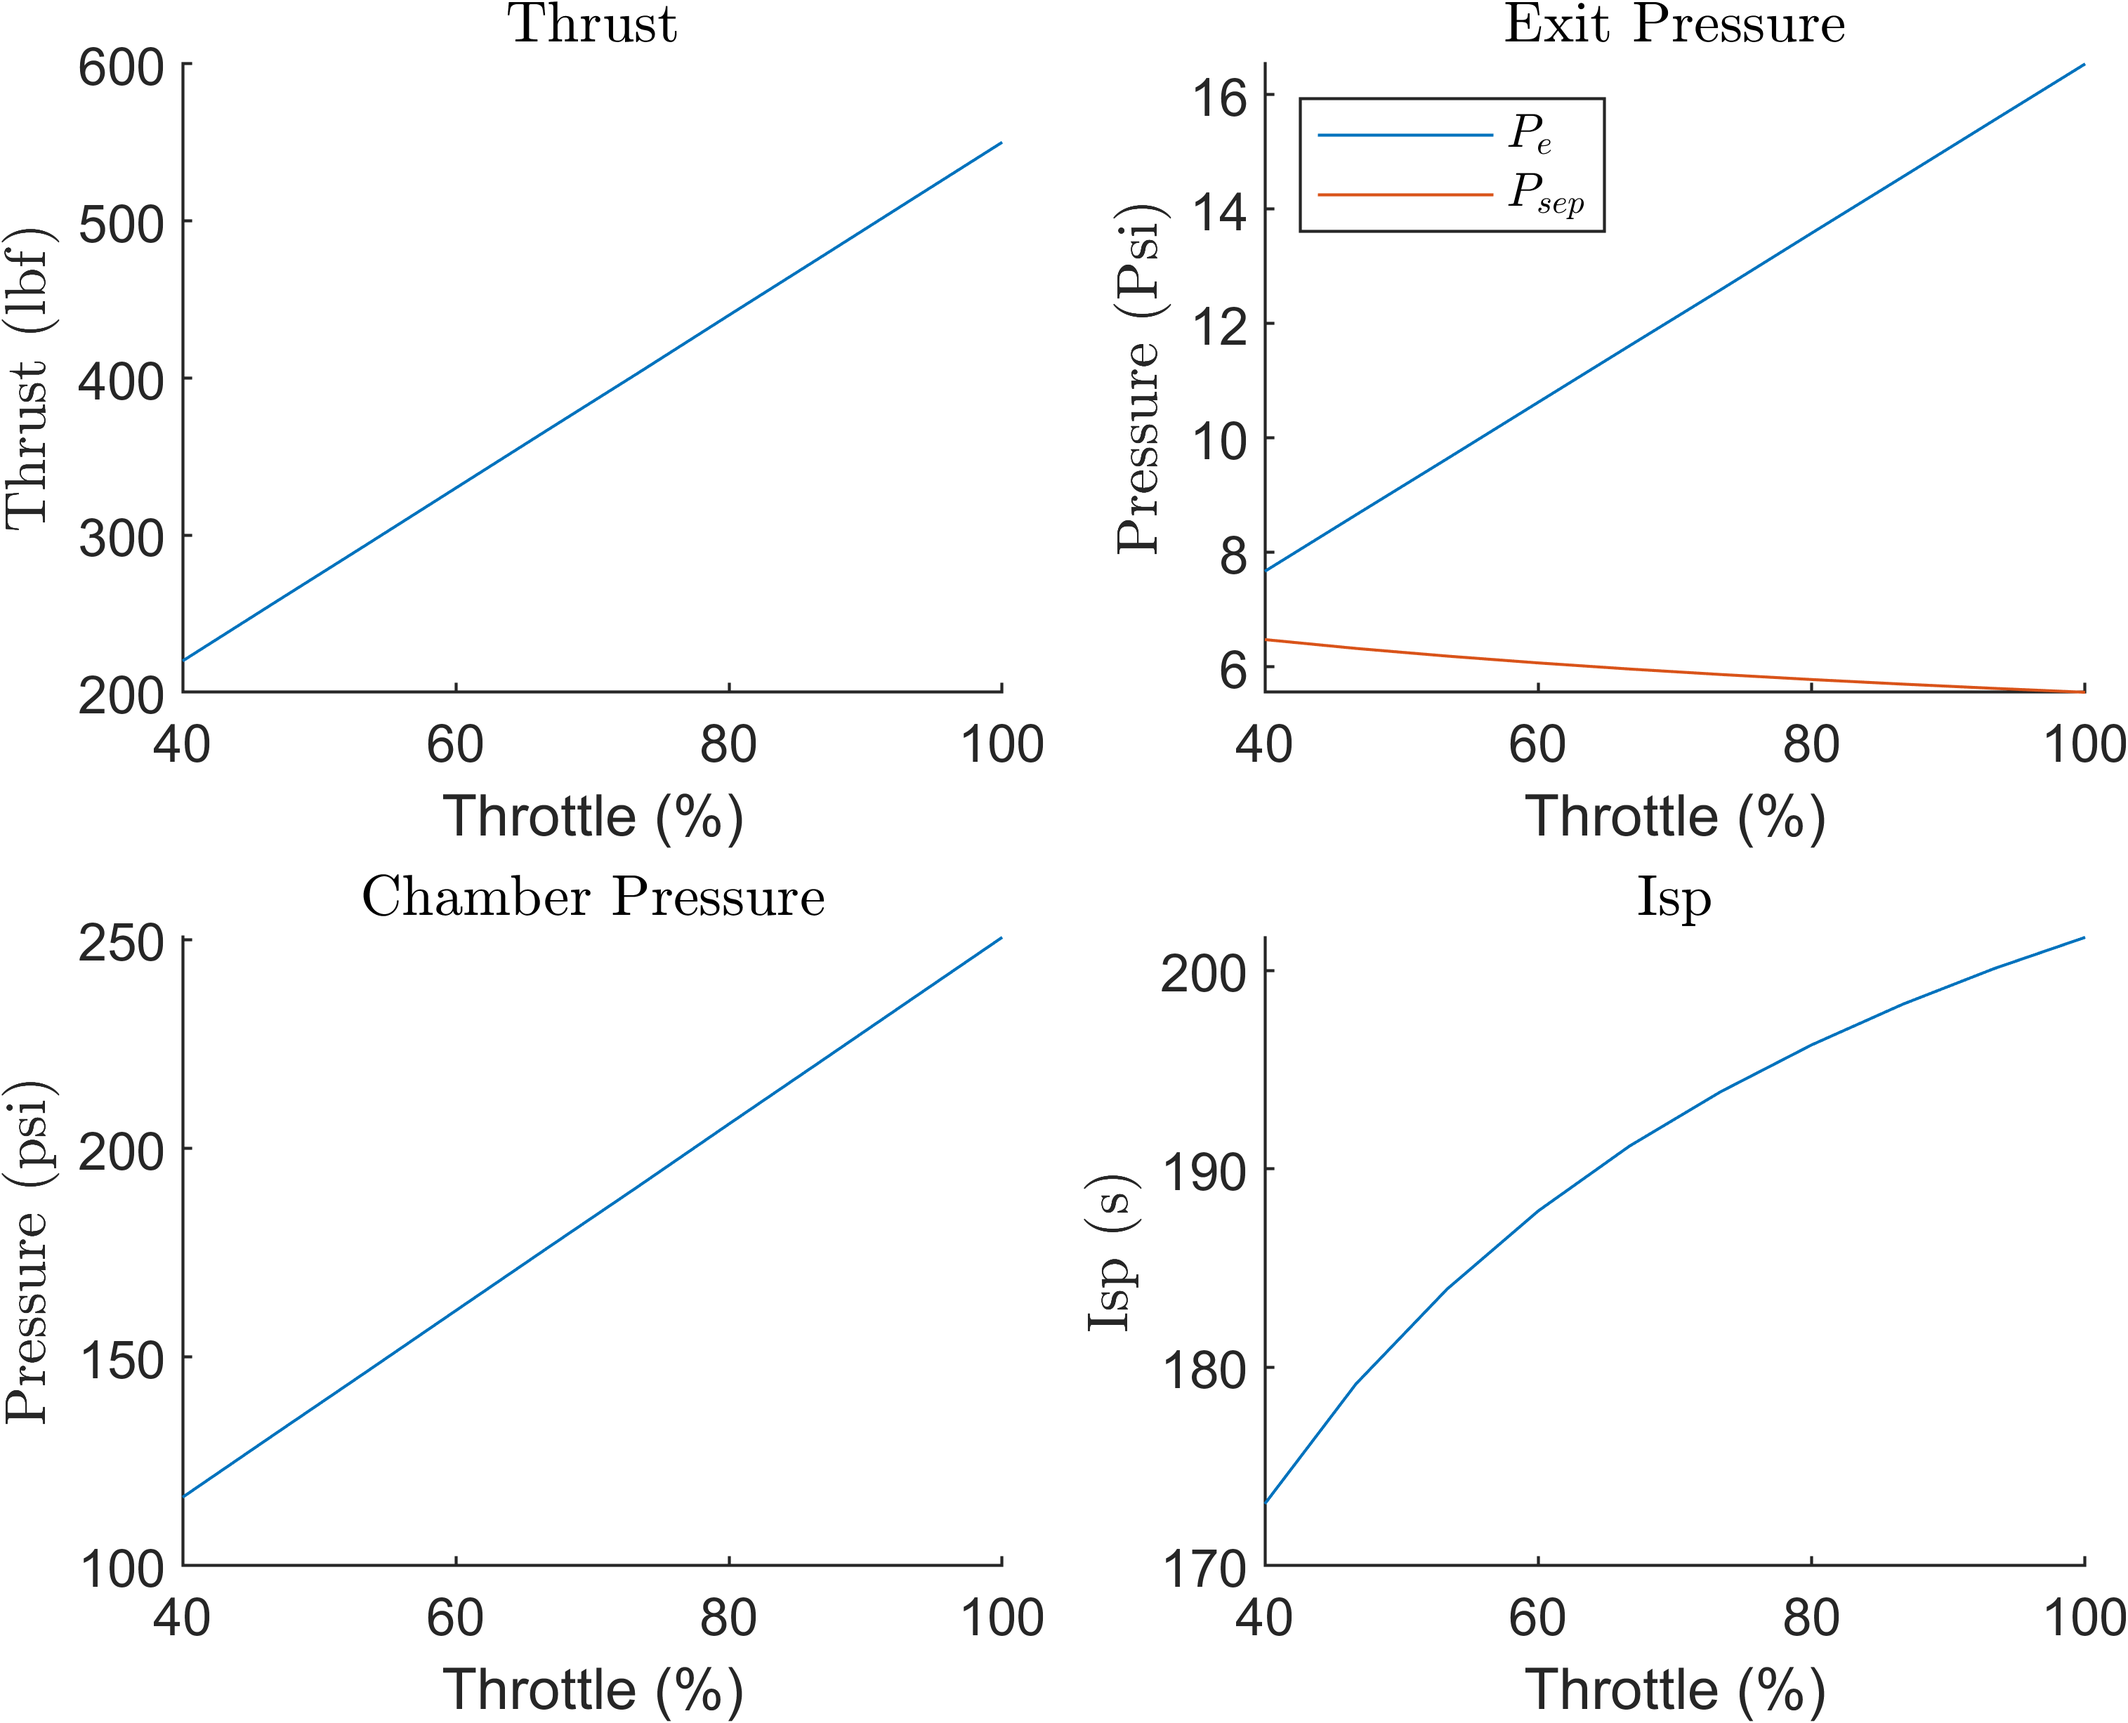
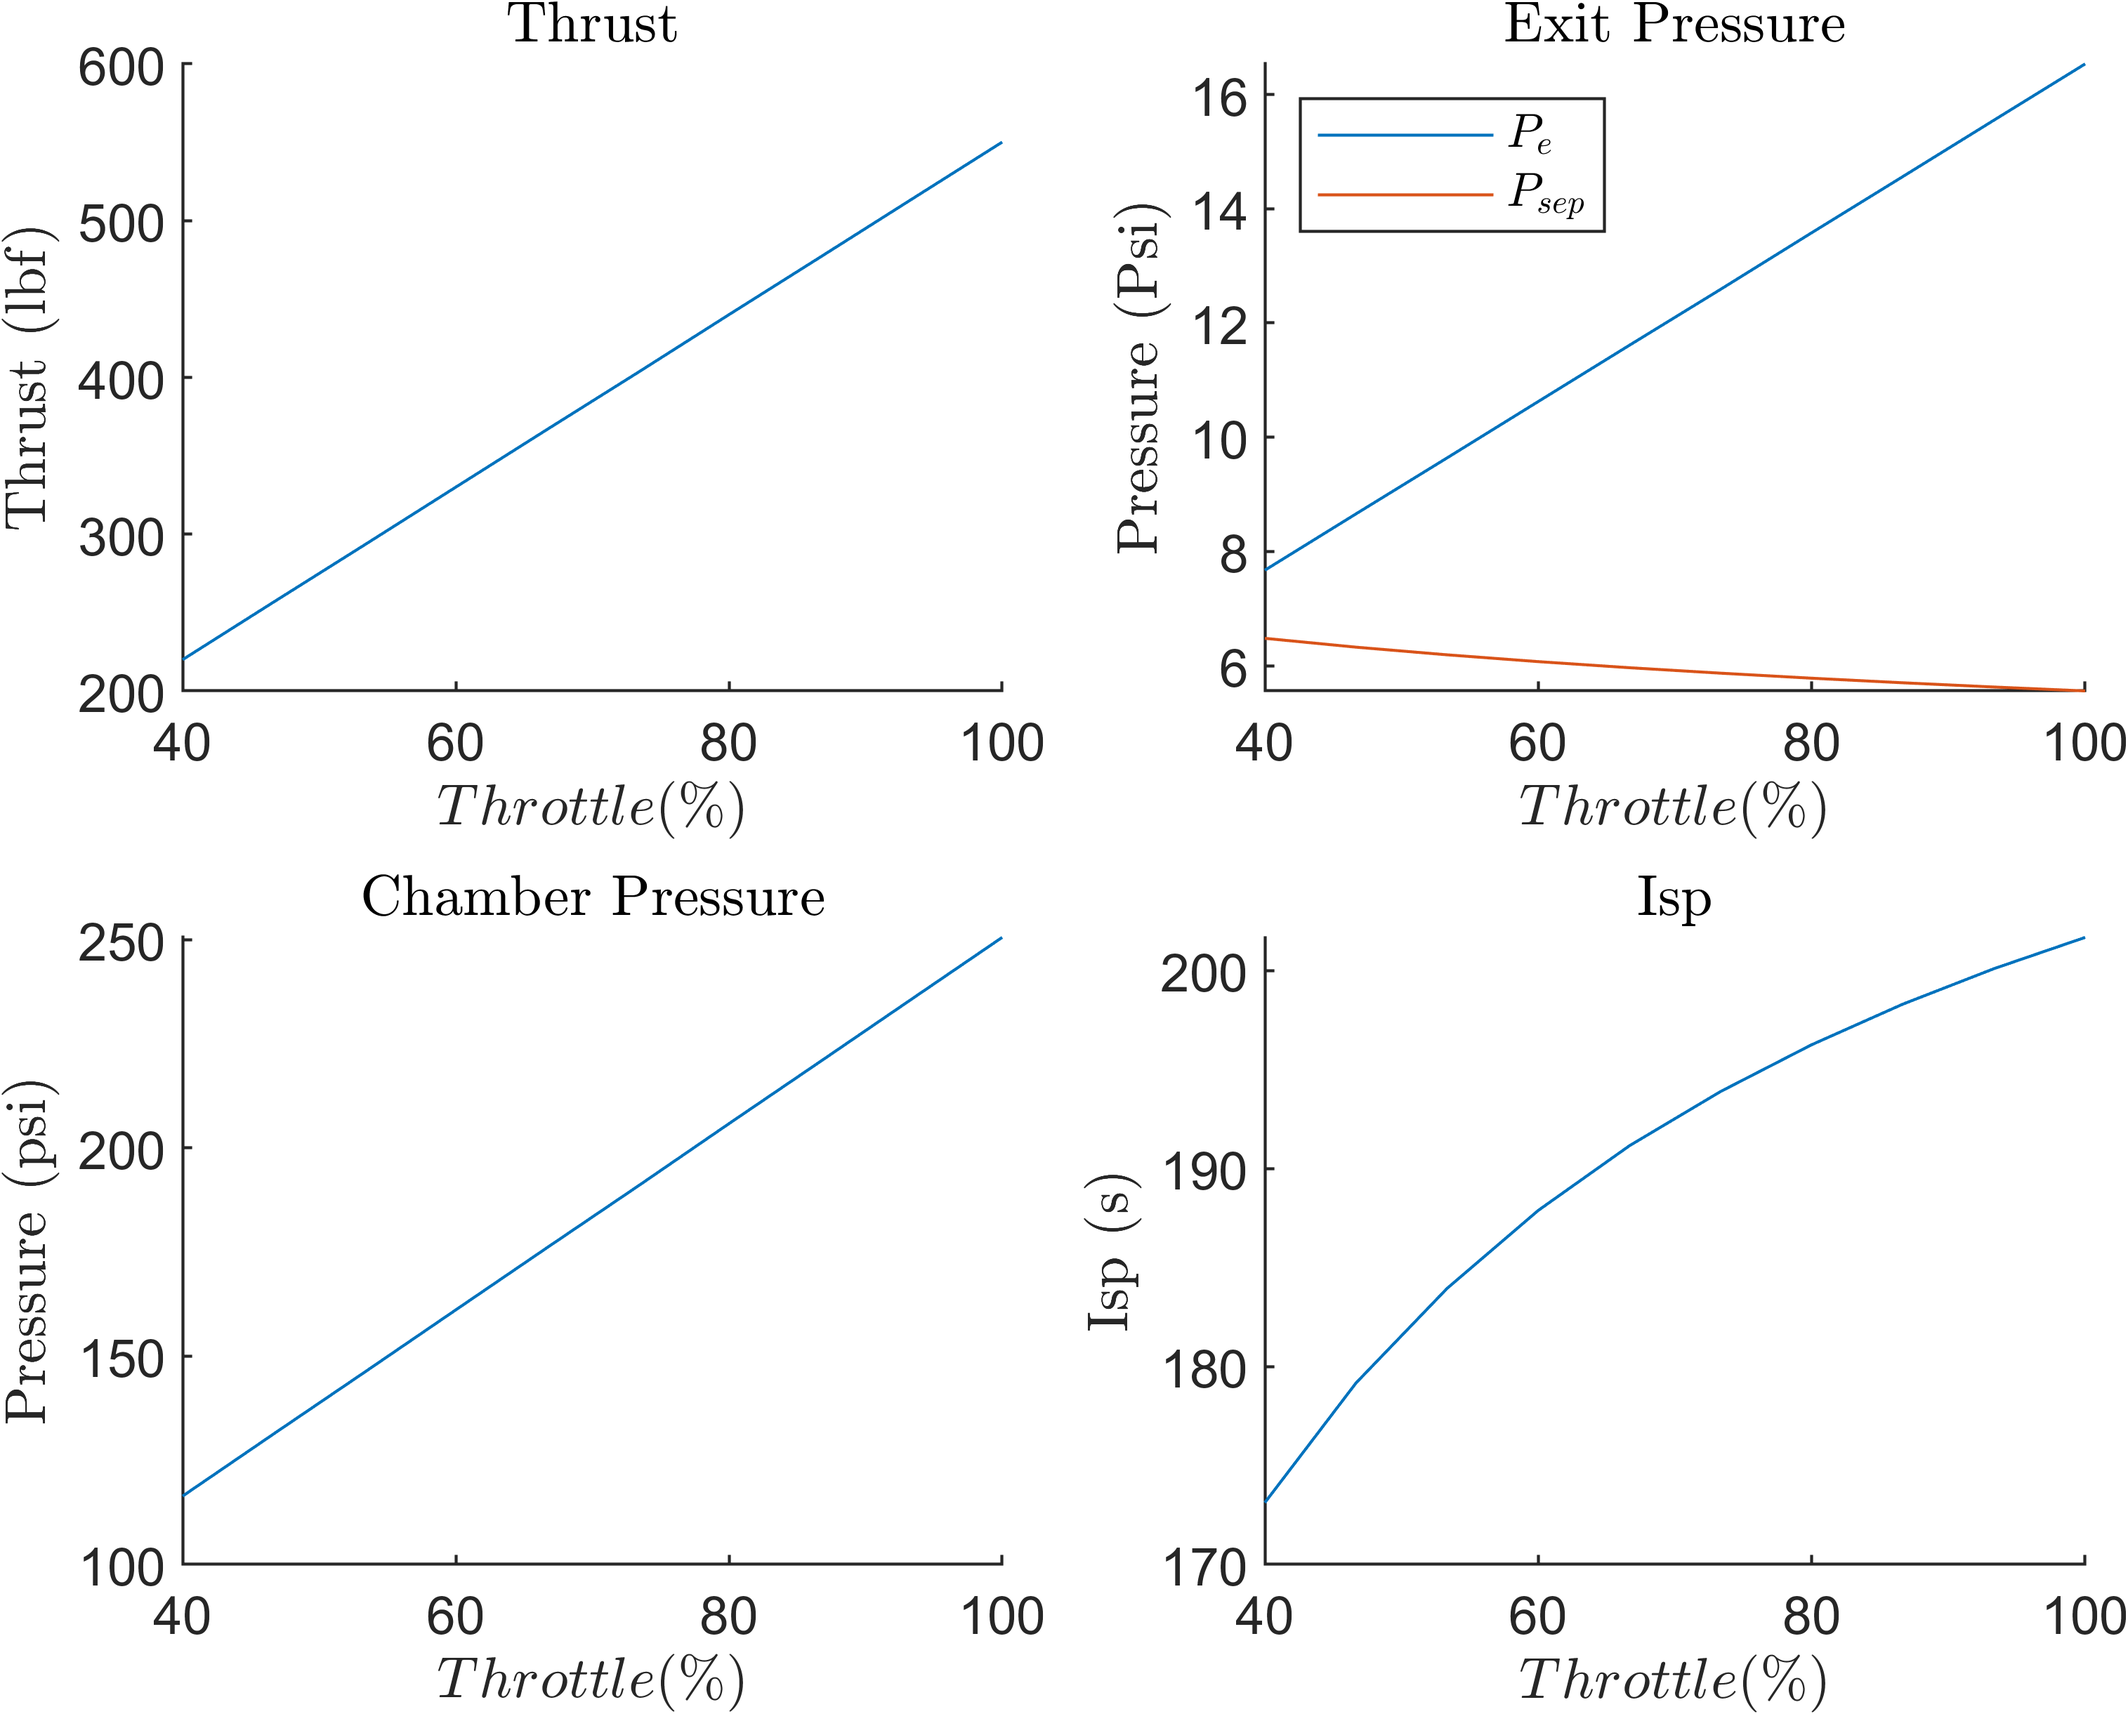
Latex Plot Fix
Prettier Plots

diff --git a/Throttle/Throttle_Full_range.m b/Throttle/Throttle_Full_range.m
@@ -138,7 +138,7 @@ set(gcf,'color','w')
 hAxes.TickLabelInterpreter = 'latex';
 plot(throttle_pct*100, throttle_thrust_actual * 0.224809)
 title("Thrust",'Interpreter','latex')
-xlabel("Throttle (%)",'Interpreter','latex')
+xlabel("$$Throttle (\%)$$",'Interpreter','latex')
 ylabel("Thrust (lbf)",'Interpreter','latex')
 
 subplot(2,2,2)
@@ -149,7 +149,7 @@ plot(throttle_pct*100, Pe_throttle)
 plot(throttle_pct*100,P_sep)
 legend('$$P_{e}$$','$$P_{sep}$$','Interpreter','latex','Location','northwest')
 title("Exit Pressure",'Interpreter','latex')
-xlabel("Throttle (%)",'Interpreter','latex')
+xlabel("$$Throttle (\%)$$",'Interpreter','latex')
 ylabel("Pressure (Psi)",'Interpreter','latex')
 
 subplot(2,2,3)
@@ -158,7 +158,7 @@ set(gcf,'color','w')
 hAxes.TickLabelInterpreter = 'latex';
 plot(throttle_pct*100, Pc_throttle_actual)
 title("Chamber Pressure",'Interpreter','latex')
-xlabel("Throttle (%)",'Interpreter','latex')
+xlabel("$$Throttle (\%)$$",'Interpreter','latex')
 ylabel("Pressure (psi)",'Interpreter','latex')
 
 subplot(2,2,4)
@@ -167,7 +167,7 @@ set(gcf,'color','w')
 hAxes.TickLabelInterpreter = 'latex';
 plot(throttle_pct*100, isp_throttle)
 title("Isp",'Interpreter','latex')
-xlabel("Throttle (%)",'Interpreter','latex')
+xlabel("$$Throttle (\%)$$",'Interpreter','latex')
 ylabel("Isp (s)",'Interpreter','latex')
 
 exportgraphics(f,'Chamber_throttle.png','Resolution',600)
@@ -181,7 +181,7 @@ set(gcf,'color','w')
 hAxes.TickLabelInterpreter = 'latex';
 plot(throttle_pct*100, P_OX_manifold)
 title("Oxidizer Manifold Pressure",'Interpreter','latex')
-xlabel("Throttle (%)",'Interpreter','latex')
+xlabel("$$Throttle (\%)$$",'Interpreter','latex')
 ylabel("Pressure (psi)",'Interpreter','latex')
 
 subplot(2,2,2)
@@ -190,7 +190,7 @@ set(gcf,'color','w')
 hAxes.TickLabelInterpreter = 'latex';
 plot(throttle_pct*100, P_FUEL_manifold)
 title("Fuel Manifold Pressure (psi)",'Interpreter','latex')
-xlabel("Throttle (%)",'Interpreter','latex')
+xlabel("$$Throttle (\%)$$",'Interpreter','latex')
 ylabel("Pressure (psi)",'Interpreter','latex')
 
 subplot(2,2,3)
@@ -199,8 +199,8 @@ set(gcf,'color','w')
 hAxes.TickLabelInterpreter = 'latex';
 plot(throttle_pct*100, OX_stiffness*100)
 title("Oxidizer Stiffness",'Interpreter','latex')
-xlabel("Throttle (%)",'Interpreter','latex')
-ylabel("Stiffness (%)",'Interpreter','latex')
+xlabel("$$Throttle (\%)$$",'Interpreter','latex')
+ylabel("Stiffness (\%)",'Interpreter','latex')
 
 subplot(2,2,4)
 hold on 
@@ -208,8 +208,8 @@ set(gcf,'color','w')
 hAxes.TickLabelInterpreter = 'latex';
 plot(throttle_pct*100, FUEL_stiffness*100)
 title("Fuel Stiffness",'Interpreter','latex')
-xlabel("Throttle (%)",'Interpreter','latex')
-ylabel("Stiffness (%)",'Interpreter','latex')
+xlabel("$$Throttle (\%)$$",'Interpreter','latex')
+ylabel("Stiffness (\%)",'Interpreter','latex')
 
 exportgraphics(f,'Injector_throttle.png','Resolution',600)
 
@@ -222,7 +222,7 @@ set(gcf,'color','w')
 hAxes.TickLabelInterpreter = 'latex';
 plot(throttle_pct*100, mdot_throttle_actual)
 title("Total Mass Flow Rate",'Interpreter','latex')
-xlabel("Throttle (%)",'Interpreter','latex')
+xlabel("$$Throttle (\%)$$",'Interpreter','latex')
 ylabel("Mass Flow (lbm/s)",'Interpreter','latex')
 
 subplot(2,2,3)
@@ -231,7 +231,7 @@ set(gcf,'color','w')
 hAxes.TickLabelInterpreter = 'latex';
 plot(throttle_pct*100, fuel_massflow_rate)
 title("Fuel Massflow Rate",'Interpreter','latex')
-xlabel("Throttle (%)",'Interpreter','latex')
+xlabel("$$Throttle (\%)$$",'Interpreter','latex')
 ylabel("Mass Flow (lbm/s)",'Interpreter','latex')
 
 subplot(2,2,4)
@@ -240,7 +240,7 @@ set(gcf,'color','w')
 hAxes.TickLabelInterpreter = 'latex';
 plot(throttle_pct*100, ox_massflow_rate)
 title("Oxidizer Massflow Rate",'Interpreter','latex')
-xlabel("Throttle (%)",'Interpreter','latex')
+xlabel("$$Throttle (\%)$$",'Interpreter','latex')
 ylabel("Mass Flow (lbm/s)",'Interpreter','latex')
 exportgraphics(f,'MassFlow_throttle.png','Resolution',600)
 
